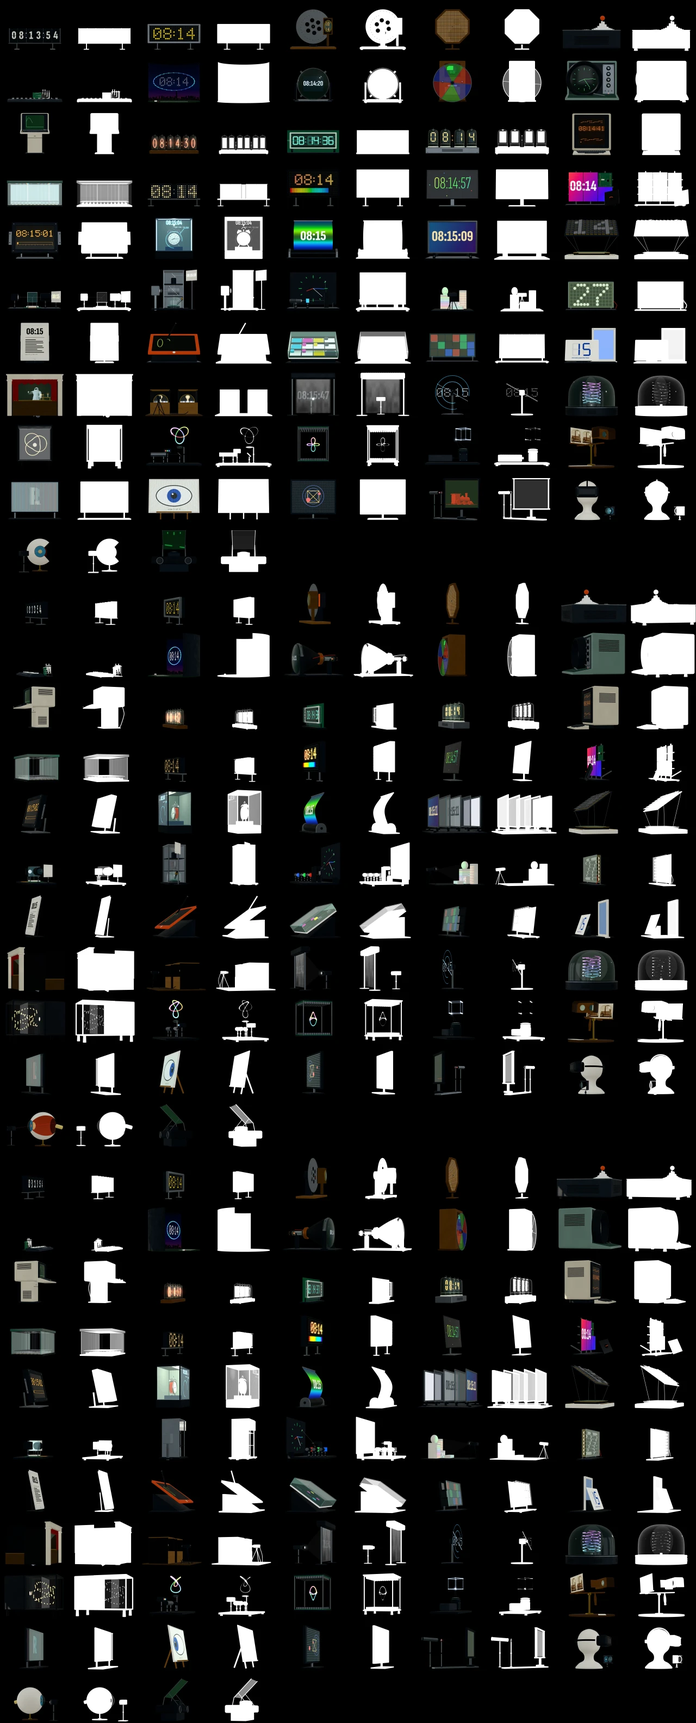
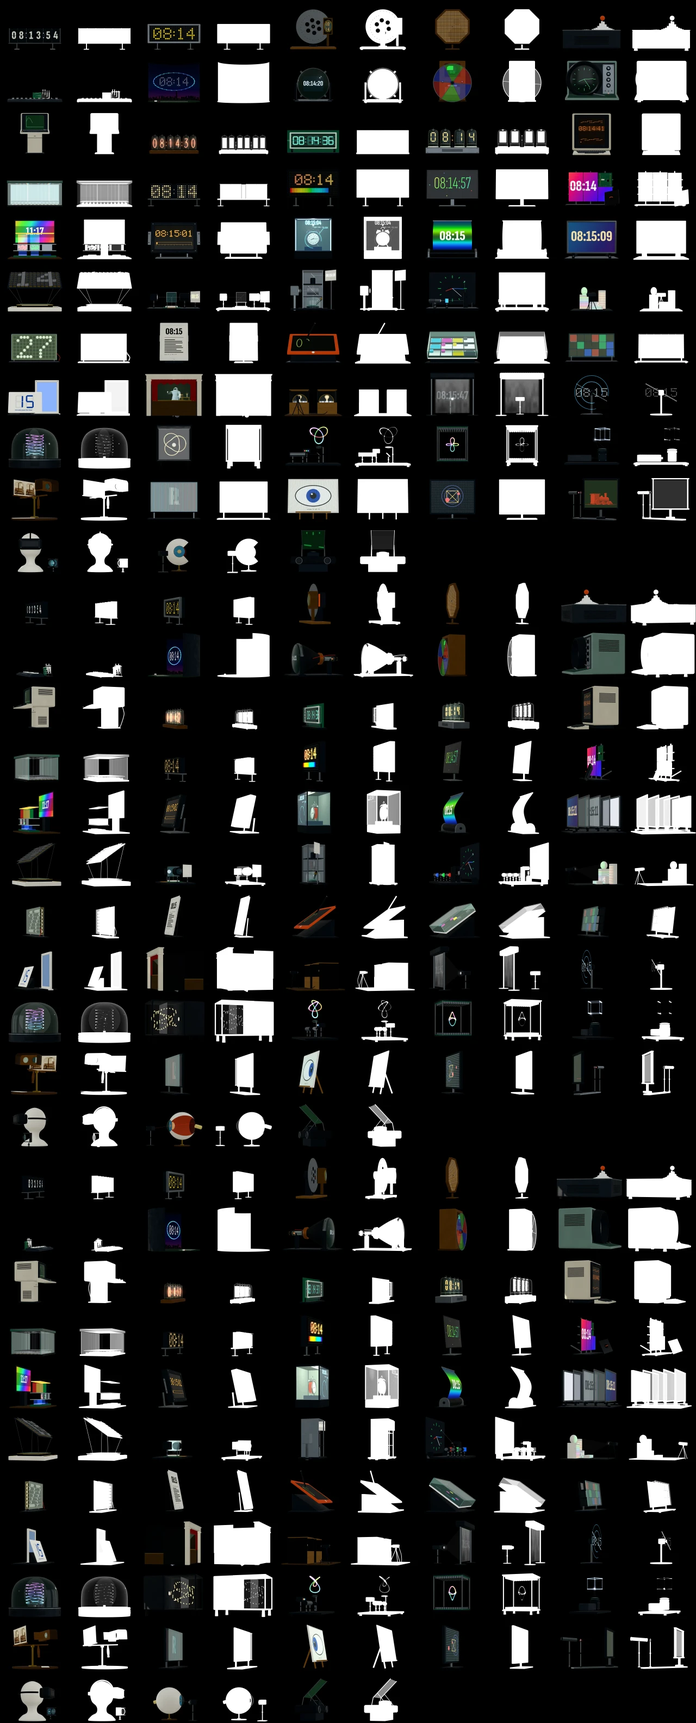
A new piece: the quantum-dot display
Hall 3 gains a seventh piece. In front stands one pixel, cut open and
enlarged: blue lamps on a board, and above them a film with three wells.
Large dots turn the blue light red, small dots turn it green, and the
third well lets the blue through. A bar on top shows the three mixed.
Behind stands the screen the pixel belongs to, showing the time.

The People section names Vicki Colvin, first author of the 1994 paper
on an LED made from quantum dots, and the three laureates of the 2023
Nobel Prize in Chemistry: Aleksey Yekimov, Louis Brus and Moungi
Bawendi. Label, sources, fact, still pictures and cut-outs, in all six
languages.

Claude-Session: https://claude.ai/code/session_01KP7tcprV3yrddMW1oAunK2

diff --git a/src/i18n/locales/fr.ts b/src/i18n/locales/fr.ts
@@ -521,6 +521,19 @@ const locale: Locale = {
       bad: ['Exige la mise en place de millions de puces minuscules, ce qui est lent et coûteux', 'Exige de trouver et de remplacer chaque puce défectueuse', 'Son prix est fait pour les entreprises, pas pour les particuliers'],
       look: 'Une dalle est sortie du mur. Regardez-la\u202f: elle est appuyée contre le socle, éteinte, avec la ventouse de levage encore fixée dessus. L’emplacement vide dans le mur laisse voir le circuit imprimé derrière les dalles et les aimants qui retiennent une dalle. C’est ainsi que l’on répare un mur, un carré à la fois.',
     },
+    'quantum-dot': {
+      name: 'Afficheur à boîtes quantiques', aka: 'QLED, QD-OLED',
+      origin: 'Vicki Colvin, M. C. Schlamp et Paul Alivisatos, université de Californie à Berkeley\u202f: une LED faite de boîtes quantiques',
+      statusNote: 'Dans les téléviseurs et les moniteurs, sous la forme d’un film qui change la lumière bleue en rouge et en vert. Les écrans dont les boîtes sont excitées directement par un courant ont été montrés à l’état de prototypes.',
+      lead: 'Des cristaux de quelques millionièmes de millimètre brillent d’une couleur que seule leur taille fixe\u202f: les petits en vert, les plus gros en rouge.',
+      how: [
+        'Une boîte quantique est un cristal de semi-conducteur si petit qu’il ne se comporte plus comme le même matériau en masse. Plus la boîte est petite, plus elle retient fortement ses électrons et plus la lumière qu’elle émet est bleue. Des boîtes d’un même matériau peuvent donc briller de couleurs différentes, simplement en les faisant croître à des tailles différentes.',
+        'Dans la plupart des écrans qui en contiennent, les boîtes ne forment pas l’image à elles seules. La lumière bleue de LED ou d’une couche OLED éclaire un film de boîtes, qui en changent une partie en un rouge et un vert très purs. En 1994, un groupe de Berkeley a pris une autre voie et a fait briller une couche de boîtes en y faisant passer un courant. Les écrans construits ainsi sont l’étape suivante.',
+      ],
+      good: ['Donne un rouge, un vert et un bleu très purs, donc une large gamme de couleurs', 'Un seul matériau donne plusieurs couleurs\u202f: seule la taille du cristal change', 'Change la lumière bleue en une autre couleur, là où un filtre coloré perdrait l’essentiel de la lumière'],
+      bad: ['Les boîtes aux couleurs les plus pures ont longtemps dépendu du cadmium, un métal toxique', 'L’air et l’humidité abîment les boîtes, qu’il faut donc enfermer', 'Les boîtes bleues excitées par un courant s’usent encore trop vite'],
+      look: 'Au premier plan, un seul pixel, ouvert et agrandi plusieurs milliers de fois. La lumière bleue monte des lampes de la carte. Dans le puits de gauche, de grosses boîtes la rendent rouge. Dans celui du milieu, de petites boîtes la rendent verte. Le puits de droite n’a pas de boîtes et laisse passer le bleu. La barre du dessus montre les trois couleurs mêlées, telles que l’œil les voit.',
+    },
     'thin-film-el': {
       name: 'Écran électroluminescent à couches minces', aka: 'TFEL, écran EL',
       origin: 'Commercialisé dans les années\u00a01980 par Sharp (Japon), Finlux (Finlande) et Planar (États-Unis)',
@@ -972,6 +985,7 @@ const locale: Locale = {
     'led-display': 'La montre Pulsar de 1972 affichait l’heure avec des LED et coûtait 2\u202f100\u00a0dollars, à peu près le prix d’une petite voiture. Les diodes consommaient tant que le cadran restait éteint jusqu’à ce que son porteur appuie sur un bouton.',
     oled: 'Chez Kodak, Ching Tang était chargé de fabriquer des cellules solaires et, de son propre aveu, il a échoué. Deux fines couches de son matériau pour cellules solaires ont en revanche émis de la lumière, même si le premier dispositif ne fonctionnait que quelques secondes à la fois.',
     microled: 'Les inventeurs sont mari et femme, et l’idée est née d’une question posée à table, au dîner\u202f: qu’arriverait-il à une LED réduite à l’échelle du micromètre\u202f? Leur premier brevet a expiré au moment même où les premiers écrans microLED arrivaient chez les consommateurs.',
+    'quantum-dot': 'La couleur des boîtes quantiques a d’abord été vue dans du verre. Aleksey Yekimov a coloré du verre avec de minuscules cristaux de chlorure de cuivre et a montré que la couleur dépendait de la taille des cristaux. Il a partagé pour cela le prix Nobel de chimie 2023.',
     'thin-film-el': 'Le dépôt de couches atomiques, qui construit un film une couche d’atomes à la fois et sert aujourd’hui à fabriquer les puces d’ordinateur, a été imaginé par un physicien finlandais en 1974 dans un seul but\u202f: fabriquer ces écrans. Le premier affichait les vols à l’aéroport d’Helsinki.',
     'transparent-display': 'En 2020, les rames d’une ligne de métro à Pékin et d’une autre à Shenzhen ont reçu des écrans OLED transparents de 55\u00a0pouces dans leurs fenêtres. Ils indiquaient aux voyageurs les horaires, les correspondances, les vols, la météo et l’actualité.',
     'flexible-display': 'Un écran OLED flexible est fabriqué sur une plaque de verre rigide. Du plastique est déposé sur le verre, l’écran est construit par-dessus et, à la fin, un laser ultraviolet traverse le verre et libère l’écran terminé.',
@@ -1024,6 +1038,7 @@ const locale: Locale = {
     'led-display': { did: ['Ont conçu l’indicateur numérique de Hewlett-Packard de 1969.', 'Ont obtenu des LED bleues efficaces au Japon. Les écrans en couleurs ont suivi, et le prix Nobel de physique 2014 aussi.'] },
     'oled': { did: ['Ont réalisé la première OLED efficace chez Eastman Kodak, publiée en 1987. Tang, né à Hong Kong, cherchait à fabriquer des cellules solaires.'] },
     'microled': { did: ['Physiciens et couple marié. Ils ont réalisé les premières microLED à l’université d’État du Kansas en 2000.'] },
+    'quantum-dot': { did: ['Ont réalisé une LED avec des boîtes quantiques et un plastique conducteur, à l’université de Californie à Berkeley. Colvin est la première autrice de l’article de 1994.', 'Physicien russe. Il a montré dans du verre coloré que la taille d’un minuscule cristal fixe sa couleur.', 'A prouvé le même effet dans des particules flottant librement dans un liquide.', 'Chimiste américain, français et tunisien. En 1993, il a trouvé le moyen de fabriquer des boîtes d’une qualité presque parfaite. Tous trois ont partagé le prix Nobel de chimie 2023.'] },
     'thin-film-el': { did: ['Physicien finlandais. En 1974, il a mis au point le dépôt de couches atomiques, qui fait croître un film une couche d’atomes à la fois, pour fabriquer ces panneaux.'] },
     'flexible-display': { did: ['A réalisé Gyricon, le premier papier électronique souple, au centre de recherche de Xerox à Palo Alto.'] },
     'liquid-crystal': { did: ['Ont déposé le brevet de la cellule torsadée chez Hoffmann-La Roche, en Suisse, le 4 décembre 1970.', 'A déposé un brevet semblable aux États-Unis en 1971. Le litige sur l’antériorité s’est réglé à l’amiable.', 'A construit chez RCA, dans les années 1960, un type plus ancien d’afficheur à cristaux liquides, qui fonctionnait en diffusant la lumière.'] },

diff --git a/src/i18n/locales/es.ts b/src/i18n/locales/es.ts
@@ -528,6 +528,19 @@ const locale: Locale = {
       bad: ['Necesita que millones de chips diminutos se coloquen en su sitio, algo lento y caro', 'Necesita que cada chip defectuoso se encuentre y se sustituya', 'Tiene un precio para empresas, no para hogares'],
       look: 'Hay un módulo fuera del muro. Míralo: está apoyado en el soporte, apagado, con la ventosa de extracción todavía puesta. El hueco que deja en el muro muestra la placa de circuito que hay detrás de los módulos y los imanes que sujetan cada uno. Así se repara un muro, cuadrado a cuadrado.',
     },
+    'quantum-dot': {
+      name: 'Pantalla de puntos cuánticos', aka: 'QLED, QD-OLED',
+      origin: 'Vicki Colvin, M. C. Schlamp y Paul Alivisatos, Universidad de California en Berkeley: un LED hecho con puntos cuánticos',
+      statusNote: 'En televisores y monitores, como una película que convierte la luz azul en roja y verde. Las pantallas cuyos puntos se excitan directamente con una corriente se han mostrado como prototipos.',
+      lead: 'Cristales de unas millonésimas de milímetro brillan con un color que solo depende de su tamaño: los pequeños en verde, los mayores en rojo.',
+      how: [
+        'Un punto cuántico es un cristal de semiconductor tan pequeño que ya no se comporta como el mismo material en bloque. Cuanto menor es el punto, con más fuerza retiene sus electrones y más azul es la luz que emite. Por eso, puntos de un mismo material pueden brillar en colores distintos con solo hacerlos crecer hasta tamaños distintos.',
+        'En la mayoría de las pantallas que los usan, los puntos no forman la imagen por sí solos. La luz azul de unos LED o de una capa OLED ilumina una película de puntos, y los puntos convierten parte de ella en un rojo y un verde muy puros. En 1994, un grupo de Berkeley tomó otro camino e hizo brillar una capa de puntos haciendo pasar una corriente por ella. Las pantallas construidas así son el siguiente paso.',
+      ],
+      good: ['Da un rojo, un verde y un azul muy puros, y por tanto una amplia gama de colores', 'Un solo material da varios colores, y solo cambia el tamaño del cristal', 'Convierte la luz azul en otro color, donde un filtro de color desecharía la mayor parte de la luz'],
+      bad: ['Los puntos de colores más puros dependieron durante mucho tiempo del cadmio, un metal tóxico', 'El aire y la humedad dañan los puntos, así que hay que sellarlos', 'Los puntos azules excitados con corriente todavía se desgastan demasiado pronto'],
+      look: 'Delante hay un solo píxel, abierto y ampliado muchos miles de veces. La luz azul sube desde las lámparas de la placa. En el pozo de la izquierda, los puntos grandes la vuelven roja. En el del centro, los puntos pequeños la vuelven verde. El pozo de la derecha no tiene puntos y deja pasar el azul. La barra de arriba muestra los tres colores mezclados, como los ve el ojo.',
+    },
     'thin-film-el': {
       name: 'Panel electroluminiscente de película delgada', aka: 'TFEL, pantalla EL',
       origin: 'Comercializado en la década de 1980 por Sharp (Japón), Finlux (Finlandia) y Planar (EE. UU.)',
@@ -979,6 +992,7 @@ const locale: Locale = {
     'led-display': 'El reloj Pulsar de 1972 daba la hora con LED y costaba 2100 dólares, más o menos lo que un coche pequeño. Los diodos gastaban tanta energía que la esfera permanecía apagada hasta que quien lo llevaba pulsaba un botón.',
     oled: 'El trabajo de Ching Tang en Kodak era fabricar células solares y, según cuenta él mismo, fracasó. En cambio, dos capas finas de su material para células solares emitieron luz, aunque el primer dispositivo solo funcionaba unos segundos cada vez.',
     microled: 'Los inventores son un matrimonio, y la idea empezó como una pregunta durante la cena: ¿qué le pasaría a un LED reducido a la escala de los micrómetros? Su primera patente caducó justo cuando las primeras pantallas microLED llegaban a los consumidores.',
+    'quantum-dot': 'El color de los puntos cuánticos se vio por primera vez en el vidrio. Aleksey Yekimov coloreó vidrio con cristales diminutos de cloruro de cobre y demostró que el color dependía del tamaño de los cristales. Por ello compartió el Premio Nobel de Química de 2023.',
     'thin-film-el': 'La deposición de capas atómicas, que forma una película añadiendo una capa de átomos cada vez y hoy ayuda a fabricar chips de ordenador, la ideó un físico finlandés en 1974 con un solo fin: fabricar estos paneles. El primer panel mostraba los vuelos en el aeropuerto de Helsinki.',
     'transparent-display': 'En 2020, los trenes de una línea de metro de Pekín y de otra de Shenzhen recibieron pantallas OLED transparentes de 55 pulgadas en las ventanas. Las pantallas mostraban a los pasajeros horarios de trenes, transbordos, vuelos, el tiempo y noticias.',
     'flexible-display': 'Una pantalla OLED flexible se fabrica sobre una lámina de vidrio rígido. Se recubre el vidrio de plástico, se construye la pantalla encima y, al final, un láser ultravioleta atraviesa el vidrio y libera la pantalla terminada.',
@@ -1031,6 +1045,7 @@ const locale: Locale = {
     'led-display': { did: ['Diseñaron el indicador numérico de Hewlett-Packard de 1969.', 'Lograron LED azules eficientes en Japón. Después llegaron las pantallas a todo color, y también el Premio Nobel de Física de 2014.'] },
     'oled': { did: ['Hicieron el primer OLED eficiente en Eastman Kodak, publicado en 1987. Tang, nacido en Hong Kong, se había propuesto fabricar células solares.'] },
     'microled': { did: ['Físicos y matrimonio. Hicieron los primeros microLED en la Universidad Estatal de Kansas en 2000.'] },
+    'quantum-dot': { did: ['Hicieron un LED con puntos cuánticos y un plástico conductor, en la Universidad de California en Berkeley. Colvin es la primera autora del artículo de 1994.', 'Físico ruso. Demostró en vidrio coloreado que el tamaño de un cristal diminuto determina su color.', 'Demostró el mismo efecto en partículas que flotan libremente en un líquido.', 'Químico estadounidense, francés y tunecino. En 1993 halló la manera de fabricar puntos de una calidad casi perfecta. Los tres compartieron el Premio Nobel de Química de 2023.'] },
     'thin-film-el': { did: ['Físico finlandés. En 1974 ideó la deposición de capas atómicas, que hace crecer una película de una capa de átomos cada vez, para fabricar estos paneles.'] },
     'flexible-display': { did: ['Hizo Gyricon, el primer papel electrónico flexible, en el Centro de Investigación de Xerox en Palo Alto.'] },
     'liquid-crystal': { did: ['Presentaron la patente de la celda torcida en Hoffmann-La Roche, en Suiza, el 4 de diciembre de 1970.', 'Presentó una patente similar en Estados Unidos en 1971. La disputa sobre quién fue el primero se resolvió fuera de los tribunales.', 'Construyó en RCA, en la década de 1960, un tipo anterior de pantalla de cristal líquido, que funcionaba dispersando la luz.'] },

diff --git a/src/i18n/locales/de.ts b/src/i18n/locales/de.ts
@@ -684,6 +684,19 @@ const locale: Locale = {
       ],
       look: 'Eine Kachel fehlt in der Wand. Sehen Sie sie sich an: Sie lehnt dunkel am Sockel, und der Saugheber sitzt noch auf ihr. Die leere Stelle in der Wand zeigt die Leiterplatte hinter den Kacheln und die Magnete, die eine Kachel halten. So wird eine Wand repariert, Quadrat für Quadrat.',
     },
+    'quantum-dot': {
+      name: 'Quantenpunkt-Display', aka: 'QLED, QD-OLED',
+      origin: 'Vicki Colvin, M. C. Schlamp und Paul Alivisatos, University of California, Berkeley: eine LED aus Quantenpunkten',
+      statusNote: 'In Fernsehern und Monitoren als Folie, die blaues Licht in Rot und Grün verwandelt. Bildschirme, deren Punkte direkt durch Strom angeregt werden, wurden als Prototypen gezeigt.',
+      lead: 'Kristalle von wenigen millionstel Millimetern leuchten in einer Farbe, die allein ihre Größe bestimmt: die kleinen grün, die größeren rot.',
+      how: [
+        'Ein Quantenpunkt ist ein Halbleiterkristall, der so klein ist, dass er sich nicht mehr wie dasselbe Material in größerer Menge verhält. Je kleiner der Punkt, desto fester hält er seine Elektronen und desto blauer ist das Licht, das er abgibt. Punkte aus ein und demselben Material können daher in verschiedenen Farben leuchten, einfach indem man sie verschieden groß wachsen lässt.',
+        'In den meisten Bildschirmen, die sie nutzen, erzeugen die Punkte das Bild nicht allein. Blaues Licht von LEDs oder von einer OLED-Schicht fällt auf eine Folie aus Punkten, und die Punkte verwandeln einen Teil davon in sehr reines Rot und Grün. 1994 ging eine Gruppe in Berkeley einen anderen Weg und brachte eine Schicht aus Punkten zum Leuchten, indem sie Strom hindurchschickte. So gebaute Bildschirme sind der nächste Schritt.',
+      ],
+      good: ['Liefert sehr reines Rot, Grün und Blau und damit einen großen Farbumfang', 'Ein einziges Material ergibt mehrere Farben, nur die Größe des Kristalls ändert sich', 'Verwandelt blaues Licht in eine andere Farbe, wo ein Farbfilter den größten Teil des Lichts verwerfen würde'],
+      bad: ['Die Punkte mit den reinsten Farben waren lange auf Cadmium angewiesen, ein giftiges Metall', 'Luft und Feuchtigkeit schädigen die Punkte, sie müssen also versiegelt werden', 'Blaue Punkte, die mit Strom angeregt werden, verschleißen noch zu schnell'],
+      look: 'Vorn steht ein einzelnes Pixel, aufgeschnitten und viele tausend Mal vergrößert. Blaues Licht steigt von den Lampen auf der Platine auf. In der linken Mulde machen große Punkte es rot. In der mittleren machen kleine Punkte es grün. Die rechte Mulde enthält keine Punkte und lässt das Blau durch. Der Balken oben zeigt die drei Farben gemischt, so wie das Auge sie sieht.',
+    },
     'thin-film-el': {
       name: 'Dünnschicht-Elektrolumineszenz-Display',
       aka: 'TFEL, EL-Display',
@@ -1392,6 +1405,7 @@ const locale: Locale = {
     'led-display': 'Die Pulsar-Uhr von 1972 zeigte die Zeit mit LEDs und kostete 2100\u00a0Dollar, etwa so viel wie ein Kleinwagen. Die Dioden brauchten so viel Strom, dass das Zifferblatt dunkel blieb, bis der Träger einen Knopf drückte.',
     oled: 'Ching Tang sollte bei Kodak Solarzellen entwickeln und ist daran nach eigener Aussage gescheitert. Zwei dünne Schichten seines Solarzellenmaterials gaben stattdessen Licht ab, auch wenn das erste Bauteil jeweils nur ein paar Sekunden lang funktionierte.',
     microled: 'Die Erfinder sind ein Ehepaar, und die Idee begann als Frage am Esstisch: Was geschähe mit einer LED, die man auf Mikrometergröße schrumpft? Ihr erstes Patent lief gerade aus, als die ersten MicroLED-Bildschirme die Verbraucher erreichten.',
+    'quantum-dot': 'Die Farbe der Quantenpunkte wurde zuerst in Glas gesehen. Aleksey Yekimov färbte Glas mit winzigen Kristallen aus Kupferchlorid und zeigte, dass die Farbe von der Größe der Kristalle abhing. Dafür teilte er sich 2023 den Nobelpreis für Chemie.',
     'thin-film-el': 'Die Atomlagenabscheidung, die einen Film Atomlage für Atomlage aufbaut und heute bei der Herstellung von Computerchips hilft, erdachte ein finnischer Physiker 1974 zu einem einzigen Zweck: um diese Displays herzustellen. Das erste zeigte die Flüge am Flughafen Helsinki.',
     'transparent-display': '2020 erhielten U-Bahn-Züge auf einer Linie in Peking und einer in Shenzhen transparente OLED-Bildschirme mit 55\u00a0Zoll in ihren Fenstern. Sie zeigten den Fahrgästen Fahrzeiten, Umsteigemöglichkeiten, Flüge, Wetter und Nachrichten.',
     'flexible-display': 'Ein flexibler OLED-Bildschirm entsteht auf einer starren Glasscheibe. Auf das Glas wird Kunststoff aufgetragen, darauf wird das Display aufgebaut, und am Ende scheint ein Ultraviolettlaser durch das Glas und löst den fertigen Bildschirm ab.',
@@ -1444,6 +1458,7 @@ const locale: Locale = {
     'led-display': { did: ['Entwarfen die Ziffernanzeige von Hewlett-Packard von 1969.', 'Stellten in Japan effiziente blaue LEDs her. Es folgten vollfarbige Bildschirme und 2014 der Nobelpreis für Physik.'] },
     'oled': { did: ['Bauten bei Eastman Kodak die erste effiziente OLED, veröffentlicht 1987. Tang, geboren in Hongkong, hatte eigentlich Solarzellen entwickeln wollen.'] },
     'microled': { did: ['Physiker und ein Ehepaar. Sie bauten im Jahr 2000 an der Kansas State University die ersten microLEDs.'] },
+    'quantum-dot': { did: ['Bauten an der University of California in Berkeley eine LED aus Quantenpunkten und einem leitfähigen Kunststoff. Colvin ist die Erstautorin der Arbeit von 1994.', 'Russischer Physiker. Er zeigte an gefärbtem Glas, dass die Größe eines winzigen Kristalls seine Farbe bestimmt.', 'Wies denselben Effekt an Teilchen nach, die frei in einer Flüssigkeit schweben.', 'Amerikanischer, französischer und tunesischer Chemiker. 1993 fand er den Weg, Punkte von nahezu perfekter Qualität herzustellen. Die drei teilten sich 2023 den Nobelpreis für Chemie.'] },
     'thin-film-el': { did: ['Finnischer Physiker. 1974 entwickelte er die Atomlagenabscheidung, die einen Film Atomlage für Atomlage wachsen lässt, um diese Anzeigen herzustellen.'] },
     'flexible-display': { did: ['Baute am Xerox Palo Alto Research Center Gyricon, das erste biegsame elektronische Papier.'] },
     'liquid-crystal': { did: ['Meldeten am 4. Dezember 1970 bei Hoffmann-La Roche in der Schweiz das Patent für die verdrillte Zelle an.', 'Meldete 1971 in den USA ein ähnliches Patent an. Der Streit darüber, wer zuerst da war, wurde außergerichtlich beigelegt.', 'Baute in den 1960er-Jahren bei RCA eine frühere Art von Flüssigkristallanzeige, die das Licht streute.'] },

diff --git a/src/i18n/locales/ca.ts b/src/i18n/locales/ca.ts
@@ -685,6 +685,19 @@ const locale: Locale = {
       ],
       look: "Hi ha un mòdul fora del mur. Mira-te'l: està recolzat al suport, apagat, encara amb la ventosa posada. El lloc buit del mur deixa veure la placa de circuits que hi ha darrere els mòduls i els imants que n'aguanten un. Un mur es repara així, quadrat a quadrat.",
     },
+    'quantum-dot': {
+      name: 'Pantalla de punts quàntics', aka: 'QLED, QD-OLED',
+      origin: 'Vicki Colvin, M. C. Schlamp i Paul Alivisatos, Universitat de Califòrnia a Berkeley: un LED fet amb punts quàntics',
+      statusNote: "En televisors i monitors, com una pel·lícula que converteix la llum blava en vermella i verda. Les pantalles en què un corrent excita directament els punts s'han mostrat com a prototips.",
+      lead: "Cristalls d'unes milionèsimes de mil·límetre brillen amb un color que només depèn de la mida: els petits en verd, els més grans en vermell.",
+      how: [
+        "Un punt quàntic és un cristall de semiconductor tan petit que ja no es comporta com el mateix material en bloc. Com més petit és el punt, amb més força reté els electrons i més blava és la llum que emet. Per això, punts d'un mateix material poden brillar en colors diferents només fent-los créixer fins a mides diferents.",
+        "A la majoria de pantalles que en fan servir, els punts no formen la imatge tots sols. La llum blava d'uns LED o d'una capa OLED il·lumina una pel·lícula de punts, i els punts en converteixen una part en un vermell i un verd molt purs. El 1994, un grup de Berkeley va prendre un altre camí i va fer brillar una capa de punts fent-hi passar un corrent. Les pantalles construïdes així són el pas següent.",
+      ],
+      good: ['Dona un vermell, un verd i un blau molt purs, i per tant una gamma àmplia de colors', 'Un sol material dona diversos colors, i només canvia la mida del cristall', 'Converteix la llum blava en un altre color, on un filtre de color llençaria la major part de la llum'],
+      bad: ['Els punts de colors més purs van dependre molt de temps del cadmi, un metall tòxic', "L'aire i la humitat fan malbé els punts, i per això s'han de segellar", 'Els punts blaus excitats amb corrent encara es gasten massa aviat'],
+      look: "Al davant hi ha un sol píxel, obert i ampliat molts milers de vegades. La llum blava puja des dels llums de la placa. Al pou de l'esquerra, els punts grans la tornen vermella. Al del mig, els punts petits la tornen verda. El pou de la dreta no té punts i deixa passar el blau. La barra de dalt mostra els tres colors barrejats, tal com els veu l'ull.",
+    },
     'thin-film-el': {
       name: "Panell electroluminescent de capa prima",
       aka: "TFEL, pantalla EL",
@@ -1393,6 +1406,7 @@ const locale: Locale = {
     'led-display': "El rellotge Pulsar del 1972 donava l'hora amb leds i costava 2.100 dòlars, més o menys com un cotxe petit. Els díodes gastaven tanta energia que l'esfera es quedava apagada fins que qui el portava premia un botó.",
     oled: "La feina de Ching Tang a Kodak era fer cèl·lules solars i, segons explica ell mateix, no se'n va sortir. En canvi, dues capes primes del seu material per a cèl·lules solars van emetre llum, tot i que el primer dispositiu només funcionava uns segons cada vegada.",
     microled: "Els inventors són un matrimoni, i la idea va començar com una pregunta a l'hora de sopar: què li passaria a un led reduït a l'escala dels micròmetres? La seva primera patent va caducar just quan les primeres pantalles de microleds arribaven als consumidors.",
+    'quantum-dot': 'El color dels punts quàntics es va veure per primera vegada en el vidre. Aleksey Yekimov va acolorir vidre amb cristalls diminuts de clorur de coure i va demostrar que el color depenia de la mida dels cristalls. Per això va compartir el Premi Nobel de Química del 2023.',
     'thin-film-el': "La deposició de capes atòmiques, que forma una pel·lícula afegint una capa d'àtoms cada vegada i avui ajuda a fabricar xips d'ordinador, la va idear un físic finlandès el 1974 amb una sola finalitat: fabricar aquests panells. El primer panell mostrava els vols a l'aeroport de Hèlsinki.",
     'transparent-display': "El 2020, els trens d'una línia de metro de Pequín i d'una altra de Shenzhen van rebre pantalles OLED transparents de 55 polzades a les finestres. Les pantalles mostraven als passatgers horaris de trens, transbordaments, vols, el temps i notícies.",
     'flexible-display': "Una pantalla OLED flexible es fabrica sobre una làmina de vidre rígid. Es recobreix el vidre de plàstic, s'hi construeix la pantalla al damunt i, al final, un làser ultraviolat travessa el vidre i allibera la pantalla acabada.",
@@ -1445,6 +1459,7 @@ const locale: Locale = {
     'led-display': { did: ["Van dissenyar l'indicador numèric de Hewlett-Packard del 1969.", 'Van aconseguir LED blaus eficients al Japó. Després van arribar les pantalles a tot color, i també el Premi Nobel de Física del 2014.'] },
     'oled': { did: ["Van fer el primer OLED eficient a Eastman Kodak, publicat el 1987. Tang, nascut a Hong Kong, s'havia proposat fabricar cèl·lules solars."] },
     'microled': { did: ['Físics i matrimoni. Van fer els primers microLED a la Universitat Estatal de Kansas el 2000.'] },
+    'quantum-dot': { did: ["Van fer un LED amb punts quàntics i un plàstic conductor, a la Universitat de Califòrnia a Berkeley. Colvin és la primera autora de l'article del 1994.", "Físic rus. Va demostrar en vidre acolorit que la mida d'un cristall diminut en determina el color.", 'Va demostrar el mateix efecte en partícules que suren lliurement en un líquid.', "Químic nord-americà, francès i tunisià. El 1993 va trobar la manera de fabricar punts d'una qualitat gairebé perfecta. Tots tres van compartir el Premi Nobel de Química del 2023."] },
     'thin-film-el': { did: ["Físic finlandès. El 1974 va idear la deposició de capes atòmiques, que fa créixer una pel·lícula d'una capa d'àtoms cada vegada, per fabricar aquests panells."] },
     'flexible-display': { did: ['Va fer Gyricon, el primer paper electrònic flexible, al Centre de Recerca de Xerox a Palo Alto.'] },
     'liquid-crystal': { did: ['Van presentar la patent de la cel·la torçada a Hoffmann-La Roche, a Suïssa, el 4 de desembre del 1970.', 'Va presentar una patent semblant als Estats Units el 1971. La disputa sobre qui havia estat el primer es va resoldre fora dels tribunals.', 'Va construir a RCA, a la dècada del 1960, un tipus anterior de pantalla de cristall líquid, que funcionava dispersant la llum.'] },

diff --git a/src/i18n/locales/zh.ts b/src/i18n/locales/zh.ts
@@ -681,6 +681,19 @@ const locale: Locale = {
       ],
       look: '有一块模块从墙上取了下来。看看这一块：它斜靠在台座上，没有点亮，取模块用的吸盘还吸在上面。墙上空出来的位置，露出模块后面的电路板和吸住模块的磁铁。视频墙就是这样修的，一次换一块。',
     },
+    'quantum-dot': {
+      name: '量子点显示', aka: 'QLED，QD-OLED',
+      origin: 'Vicki Colvin、M. C. Schlamp与Paul Alivisatos，加州大学伯克利分校：用量子点做成的LED',
+      statusNote: '在电视和显示器里，它是一层把蓝光变成红光和绿光的薄膜。直接用电流让量子点发光的屏幕，目前只展示过样机。',
+      lead: '只有百万分之几毫米大的晶体会发光，颜色完全由大小决定：小的发绿光，大一些的发红光。',
+      how: [
+        '量子点是极小的半导体晶体，小到它的表现已经和同一种材料的大块晶体不一样。量子点越小，对电子束缚得越紧，发出的光就越偏蓝。所以同一种材料的量子点，只要长成不同的大小，就能发出不同颜色的光。',
+        '在大多数用到量子点的屏幕里，量子点并不是单独形成画面的。LED或OLED层发出的蓝光照在一层量子点薄膜上，量子点把其中一部分变成非常纯的红光和绿光。1994年，伯克利的一个研究组走了另一条路：让电流通过一层量子点，使它发光。这样制造的屏幕是下一步。',
+      ],
+      good: ['红、绿、蓝都非常纯，所以色域很宽', '一种材料就能给出几种颜色，变的只是晶体的大小', '它把蓝光变成别的颜色，而滤色片会把大部分光挡掉'],
+      bad: ['颜色最纯的量子点长期依赖镉这种有毒金属', '空气和水汽会损坏量子点，所以必须密封', '用电流驱动的蓝色量子点，寿命仍然太短'],
+      look: '前面是一个像素，剖开后放大了几千倍。蓝光从电路板上的灯升起。在左边的小格里，大的量子点把它变成红光；在中间的小格里，小的量子点把它变成绿光；右边的小格里没有量子点，蓝光直接穿过。顶上的横条显示三种颜色混合后眼睛看到的颜色。',
+    },
     'thin-film-el': {
       name: '薄膜电致发光显示屏',
       aka: 'TFEL、EL显示屏',
@@ -1389,6 +1402,7 @@ const locale: Locale = {
     'led-display': '1972年的Pulsar手表用LED显示时间，售价2100美元，差不多是一辆小汽车的价钱。二极管太费电，表盘平时是黑的，要佩戴者按一下按钮才亮。',
     oled: '邓青云在柯达的工作是做太阳能电池，按他自己的说法，他失败了。可是他那种太阳能电池材料的两层薄膜却发出了光，尽管第一个器件每次只能工作几秒钟。',
     microled: '发明人是一对夫妇，这个想法始于他们餐桌上的一个问题：把LED缩小到微米尺度，会怎么样？他们的第一项专利到期时，第一批MicroLED屏幕刚好到了消费者手里。',
+    'quantum-dot': '量子点的颜色最早是在玻璃里看到的。Aleksey Yekimov用极小的氯化铜晶体给玻璃着色，并证明颜色取决于晶体的大小。他因此分享了2023年诺贝尔化学奖。',
     'thin-film-el': '原子层沉积每次只长一层原子，如今用来帮助制造计算机芯片。一位芬兰物理学家在1974年发明它，只为了一个目的：制造这种显示屏。第一块屏在赫尔辛基机场显示航班信息。',
     'transparent-display': '2020年，北京和深圳各有一条地铁线的列车，在车窗上装了55英寸的透明OLED屏。屏上向乘客显示列车时刻、换乘、航班、天气和新闻。',
     'flexible-display': '柔性OLED屏是在一块硬玻璃上做出来的。先在玻璃上涂一层塑料，在塑料上面做出显示屏，最后用紫外激光透过玻璃照射，把做好的屏剥离下来。',
@@ -1441,6 +1455,7 @@ const locale: Locale = {
     'led-display': { did: ['设计了Hewlett-Packard在1969年推出的数字显示器。', '在日本做出高效的蓝光LED。全彩屏幕随之出现，2014年的诺贝尔物理学奖也随之而来。'] },
     'oled': { did: ['在Eastman Kodak做出第一个高效的OLED，1987年发表。Tang生于香港，原本是想做太阳能电池。'] },
     'microled': { did: ['两位物理学家，也是一对夫妻。2000年在堪萨斯州立大学做出最早的microLED。'] },
+    'quantum-dot': { did: ['在加州大学伯克利分校用量子点和一种导电塑料做出了LED。Colvin是1994年那篇论文的第一作者。', '俄罗斯物理学家。他用有色玻璃证明，微小晶体的大小决定它的颜色。', '在自由悬浮于液体中的颗粒上证实了同样的效应。', '美国、法国和突尼斯化学家。1993年，他找到了制造质量近乎完美的量子点的方法。三人共同获得2023年诺贝尔化学奖。'] },
     'thin-film-el': { did: ['芬兰物理学家。1974年，他为制造这种面板想出了原子层沉积法，让薄膜一次只长一层原子。'] },
     'flexible-display': { did: ['在施乐帕洛阿尔托研究中心做出第一种柔性电子纸Gyricon。'] },
     'liquid-crystal': { did: ['1970年12月4日在瑞士Hoffmann-La Roche公司为扭曲液晶盒提出专利申请。', '1971年在美国提出一项类似的专利。谁先谁后的争议最后在庭外和解。', '1960年代在RCA做出更早的一种液晶显示器，靠散射光线工作。'] },

diff --git a/src/three/models/h3.ts b/src/three/models/h3.ts
@@ -305,3 +305,59 @@ export function flexible(): Built {
     },
   };
 }
+
+/**
+ * Quantum dots. In front, one pixel of a screen cut open and enlarged: blue lamps below, a film with three wells
+ * above them. Large dots turn the blue light red, small dots turn it green, and the third well lets it through.
+ * Behind stands the screen the pixel belongs to, showing the time.
+ */
+export function quantumDots(): Built {
+  const root = G.group();
+  const s = screen(512, 288), W = 512, H = 288;
+  const dark = M.dark(), black = M.black();
+  const FILM = 0.42, TALL = 0.28, XS = [-0.6, 0, 0.6], COLOURS = [0xff2b1c, 0x22e04a, 0x2a5cff];
+  root.add(G.rbox(2.6, 0.06, 1.7, 0.02, M.wood(0x3a2a1c), [0, 0.03, -0.1]));
+  // the screen the pixel is taken from
+  root.add(G.rbox(2.2, 1.32, 0.07, 0.02, dark, [0, 1.4, -0.72]), G.plane(2.08, 1.17, M.lit(s, 1.35), [0, 1.4, -0.682]), G.box(0.4, 0.72, 0.26, dark, [0, 0.42, -0.72], 0));
+  // the slice: a board of blue lamps, a sheet of glass, the film with its three wells, and a sheet of glass on top
+  root.add(G.box(2.1, 0.08, 0.5, M.pcb(), [0, 0.12, 0.25], 0), G.box(2.1, 0.03, 0.5, M.glass(0xb9c9c6, 0.2), [0, FILM - 0.02, 0.25], 0), G.box(2.1, 0.03, 0.5, M.glass(0xb9c9c6, 0.2), [0, FILM + TALL + 0.015, 0.25], 0));
+  for (const x of [-0.9, -0.3, 0.3, 0.9]) root.add(G.box(0.1, TALL, 0.46, black, [x, FILM + TALL / 2, 0.25], 0));
+  const lampsLit = XS.map((x) => { const m = M.glow(0x2a5cff, 2); root.add(G.box(0.4, 0.04, 0.3, m, [x, 0.18, 0.25], 0)); return m; });
+  const rising = XS.map((x) => { const m = M.add(null, 0x2a5cff, 0.2); root.add(G.box(0.4, FILM - 0.24, 0.3, m, [x, (FILM + 0.16) / 2, 0.25], 0)); return m; });
+  const leaving = XS.map((x, i) => { const m = M.add(null, COLOURS[i], 0.2); root.add(G.box(0.46, 0.46, 0.4, m, [x, FILM + TALL + 0.27, 0.25], 0)); return m; });
+  for (const x of XS) root.add(G.box(0.5, TALL, 0.44, M.glass(0xe6f0ff, 0.1), [x, FILM + TALL / 2, 0.25], 0));
+  // the dots themselves: few and large for red, many and small for green, none where the blue passes
+  const sown = (count: number, r: number, colour: number, x0: number) => {
+    const mat = M.glow(colour, 1.8), mesh = new THREE.InstancedMesh(new THREE.SphereGeometry(r, 12, 10), mat, count), at = new THREE.Matrix4();
+    let seed = count * 7919 + 13;
+    const rnd = () => (seed = (seed * 16807) % 2147483647) / 2147483647;
+    for (let i = 0; i < count; i++) mesh.setMatrixAt(i, at.makeTranslation(x0 + (rnd() - 0.5) * 0.42, FILM + 0.035 + rnd() * (TALL - 0.07), 0.25 + (rnd() - 0.5) * 0.36));
+    root.add(mesh);
+    return mat;
+  };
+  const dotsLit = [sown(46, 0.034, COLOURS[0], XS[0]), sown(110, 0.019, COLOURS[1], XS[1])];
+  // where the three colours meet again: one pixel, as the eye sees it
+  const mixed = M.glow(0xffffff, 1.5);
+  root.add(G.box(1.9, 0.035, 0.46, mixed, [0, FILM + TALL + 0.56, 0.25], 0));
+  const hue = new THREE.Color();
+  let drawn = '', due = 0;
+  return {
+    root, inDark: 'glows', glow: 0x9db4ff, view: [22, 14], surface: s.canvas,
+    update: ({ t }) => {
+      hue.setHSL((t * 0.045) % 1, 1, 0.5);
+      const level = [hue.r, hue.g, hue.b];
+      level.forEach((v, i) => { lampsLit[i].emissiveIntensity = 0.25 + 2.3 * v; rising[i].opacity = 0.04 + 0.24 * v; leaving[i].opacity = 0.03 + 0.3 * v; });
+      dotsLit[0].emissiveIntensity = 0.12 + 2.3 * level[0]; dotsLit[1].emissiveIntensity = 0.12 + 2.3 * level[1];
+      mixed.emissive.copy(hue);
+      const text = now().hhmm;
+      if (text !== drawn || t > due) {
+        const { ctx } = s, band = ctx.createLinearGradient(0, 0, W, H);
+        for (let i = 0; i <= 6; i++) band.addColorStop(i / 6, hsl((t * 16 + i * 60) % 360, 96, 46));
+        ctx.fillStyle = band; ctx.fillRect(0, 0, W, H);
+        ctx.fillStyle = 'rgba(0,0,0,.34)'; ctx.fillRect(0, H * 0.24, W, H * 0.52);
+        bigTime(ctx, W, H, text, '#ffffff', 800, 0.5);
+        s.tex.needsUpdate = true; drawn = text; due = t + 0.2;
+      }
+    },
+  };
+}

diff --git a/src/data/pieces/h3.ts b/src/data/pieces/h3.ts
@@ -48,6 +48,21 @@ export const h3: Piece[] = [
     sources: [wiki('MicroLED')],
   },
   {
+    id: 'quantum-dot', hall: 3, name: 'Quantum-dot display', aka: 'QLED, QD-OLED',
+    year: 1994, origin: 'Vicki Colvin, M. C. Schlamp and Paul Alivisatos, University of California, Berkeley: an LED made with quantum dots',
+    status: 'production', statusNote: 'In televisions and monitors as a film that turns blue light into red and green. Screens whose dots are driven directly by a current have been shown as prototypes.',
+    principle: 'emits', needs: [],
+    lead: 'Crystals a few millionths of a millimetre across glow in a colour set by their size alone: the small ones green, the larger ones red.',
+    how: [
+      'A quantum dot is a crystal of semiconductor so small that it no longer behaves like the same material in bulk. The smaller the dot, the more tightly it holds its electrons, and the bluer the light it gives off. Dots of one material can therefore be made to glow in different colours, simply by growing them to different sizes.',
+      'In most screens that use them, the dots do not make the picture on their own. Blue light from LEDs or from an OLED layer shines on a film of dots, and the dots turn part of it into very pure red and green. In 1994 a group at Berkeley took another route and made a layer of dots glow by passing a current through it. Screens built that way are the next step.',
+    ],
+    good: ['Gives very pure red, green and blue, and so a wide range of colours', 'One material makes several colours, and only the size of the crystal changes', 'Turns blue light into another colour, where a colour filter would throw most of the light away'],
+    bad: ['The dots with the purest colours long depended on cadmium, a toxic metal', 'Air and moisture damage the dots, so they have to be sealed in', 'Blue dots driven by a current still wear out too quickly'],
+    look: 'In front is one pixel, cut open and enlarged many thousands of times. Blue light rises from the lamps on the board. In the left well, large dots turn it red. In the middle well, small dots turn it green. The right well has no dots, and the blue passes through. The bar on top shows the three colours mixed, as the eye sees them.',
+    sources: [src('paper', 'Colvin, Schlamp and Alivisatos, Nature (1994)', 'https://doi.org/10.1038/370354a0'), src('archive', 'The Nobel Prize in Chemistry 2023, press release', 'https://www.nobelprize.org/prizes/chemistry/2023/press-release/'), wiki('Quantum_dot_display', 'Quantum dot display')],
+  },
+  {
     id: 'thin-film-el', hall: 3, name: 'Thin-film electroluminescent panel', aka: 'TFEL, EL display',
     year: 1974, origin: 'Commercialised in the 1980s by Sharp (Japan), Finlux (Finland) and Planar (USA)',
     status: 'niche', statusNote: 'One manufacturer remains. Used where a screen must survive cold, vibration and decades of service.',

diff --git a/src/data/people.ts b/src/data/people.ts
@@ -104,6 +104,15 @@ export const people: Record<string, Credit> = {
   },
   'oled': { people: [{ who: ['Ching Wan Tang', 'Steven Van Slyke'], did: 'Made the first efficient OLED at Eastman Kodak, published in 1987. Tang, born in Hong Kong, had set out to make solar cells.' }] },
   'microled': { people: [{ who: ['Hongxing Jiang', 'Jingyu Lin'], she: ['Jingyu Lin'], did: 'Physicists and a married couple. They made the first microLEDs at Kansas State University in 2000.' }] },
+  'quantum-dot': {
+    people: [
+      { who: ['Vicki Colvin', 'M. C. Schlamp', 'Paul Alivisatos'], she: ['Vicki Colvin'], did: 'Made an LED from quantum dots and a plastic that conducts, at the University of California, Berkeley. Colvin is the first author of the paper of 1994.' },
+      { who: ['Aleksey Yekimov'], did: 'Russian physicist. He showed in coloured glass that the size of a tiny crystal sets its colour.' },
+      { who: ['Louis Brus'], did: 'Proved the same effect in particles floating freely in a liquid.' },
+      { who: ['Moungi Bawendi'], did: 'American, French and Tunisian chemist. In 1993 he found the way to make dots of almost perfect quality. The three shared the 2023 Nobel Prize in Chemistry.' },
+    ],
+    sources: [src('press', 'Nobel Chemistry Prize 2023, Tecnológico de Monterrey', 'https://tecscience.tec.mx/en/tech/nobel-chemistry-prize-2023/')],
+  },
   'thin-film-el': { people: [{ who: ['Tuomo Suntola'], did: 'Finnish physicist. In 1974 he devised atomic layer deposition, which grows a film one layer of atoms at a time, to make these panels.' }] },
   'flexible-display': { people: [{ who: ['Nicholas Sheridon'], did: 'Made Gyricon, the first flexible electronic paper, at the Xerox Palo Alto Research Center.' }] },
   'liquid-crystal': {

diff --git a/src/data/facts-a.ts b/src/data/facts-a.ts
@@ -87,6 +87,10 @@ export const factsA: Record<string, Fact> = {
     text: 'The inventors are a married couple, and the idea began as a question at their dinner table: what would happen to an LED shrunk to the scale of micrometres? Their first patent expired just as the first microLED screens reached consumers.',
     source: { label: 'Jiang and Lin, How we made the microLED, Nature Electronics (2023)', url: 'https://www.depts.ttu.edu/ece/Nanophotonics/papers/2023How%20we%20made%20the%20microLED_Nature%20electronics.pdf', kind: 'paper' },
   },
+  'quantum-dot': {
+    text: 'The colour of quantum dots was first seen in glass. Aleksey Yekimov coloured glass with tiny crystals of copper chloride and showed that the colour depended on the size of the crystals. He shared the 2023 Nobel Prize in Chemistry for it.',
+    source: { label: 'The Nobel Prize in Chemistry 2023, press release', url: 'https://www.nobelprize.org/prizes/chemistry/2023/press-release/', kind: 'archive' },
+  },
   'thin-film-el': {
     text: 'Atomic layer deposition, which builds a film one layer of atoms at a time and now helps to make computer chips, was devised by a Finnish physicist in 1974 for one purpose: to make these panels. The first panel showed flights at Helsinki Airport.',
     source: { label: 'Finnish physicist Tuomo Suntola wins Millennium Technology Prize, thisisFINLAND (2018)', url: 'https://finland.fi/business-innovation/finnish-physicist-tuomo-suntola-wins-millennium-technology-prize/', kind: 'press' },

diff --git a/src/three/models/index.ts b/src/three/models/index.ts
@@ -29,6 +29,7 @@ export const builders: Record<string, () => Built> = {
   'led-display': h3.led,
   'oled': h3.oled,
   'microled': h3.microled,
+  'quantum-dot': h3.quantumDots,
   'thin-film-el': h3.tfel,
   'transparent-display': h3.transparent,
   'flexible-display': h3.flexible,

diff --git a/src/three/walk/glows.ts b/src/three/walk/glows.ts
@@ -16,6 +16,7 @@ export const glows: Record<string, number> = {
   'led-display': 0xff9a4a,
   'oled': 0xb8a0ff,
   'microled': 0xffb0d0,
+  'quantum-dot': 0x9db4ff,
   'thin-film-el': 0xffb21a,
   'transparent-display': 0x9fe8ff,
   'flexible-display': 0x7fe0c0,

diff --git a/PORTRAITS.md b/PORTRAITS.md
@@ -1,6 +1,6 @@
 # Portraits
 
-The labels name 104 people. Each one has a place for a portrait, and the place stays empty until a picture is added by hand. Nothing in the build fetches a picture.
+The labels name 110 people. Each one has a place for a portrait, and the place stays empty until a picture is added by hand. Nothing in the build fetches a picture.
 
 ## Adding a portrait
 
@@ -80,6 +80,12 @@ Take the picture from the person's own article or file page, where the caption s
 | Steven Van Slyke | OLED | Made the first efficient OLED at Eastman Kodak, published in 1987. Tang, born in Hong Kong, had set out to make solar cells. | `public/people/steven-van-slyke.jpg` |
 | Hongxing Jiang | MicroLED | Physicists and a married couple. They made the first microLEDs at Kansas State University in 2000. | `public/people/hongxing-jiang.jpg` |
 | Jingyu Lin | MicroLED | Physicists and a married couple. They made the first microLEDs at Kansas State University in 2000. | `public/people/jingyu-lin.jpg` |
+| Vicki Colvin | Quantum-dot display | Made an LED from quantum dots and a plastic that conducts, at the University of California, Berkeley. Colvin is the first author of the paper of 1994. | `public/people/vicki-colvin.jpg` |
+| M. C. Schlamp | Quantum-dot display | Made an LED from quantum dots and a plastic that conducts, at the University of California, Berkeley. Colvin is the first author of the paper of 1994. | `public/people/m-c-schlamp.jpg` |
+| Paul Alivisatos | Quantum-dot display | Made an LED from quantum dots and a plastic that conducts, at the University of California, Berkeley. Colvin is the first author of the paper of 1994. | `public/people/paul-alivisatos.jpg` |
+| Aleksey Yekimov | Quantum-dot display | Russian physicist. He showed in coloured glass that the size of a tiny crystal sets its colour. | `public/people/aleksey-yekimov.jpg` |
+| Louis Brus | Quantum-dot display | Proved the same effect in particles floating freely in a liquid. | `public/people/louis-brus.jpg` |
+| Moungi Bawendi | Quantum-dot display | American, French and Tunisian chemist. In 1993 he found the way to make dots of almost perfect quality. The three shared the 2023 Nobel Prize in Chemistry. | `public/people/moungi-bawendi.jpg` |
 | Tuomo Suntola | Thin-film electroluminescent panel | Finnish physicist. In 1974 he devised atomic layer deposition, which grows a film one layer of atoms at a time, to make these panels. | `public/people/tuomo-suntola.jpg` |
 | Nicholas Sheridon | Flexible display | Made Gyricon, the first flexible electronic paper, at the Xerox Palo Alto Research Center. | `public/people/nicholas-sheridon.jpg` |
 
